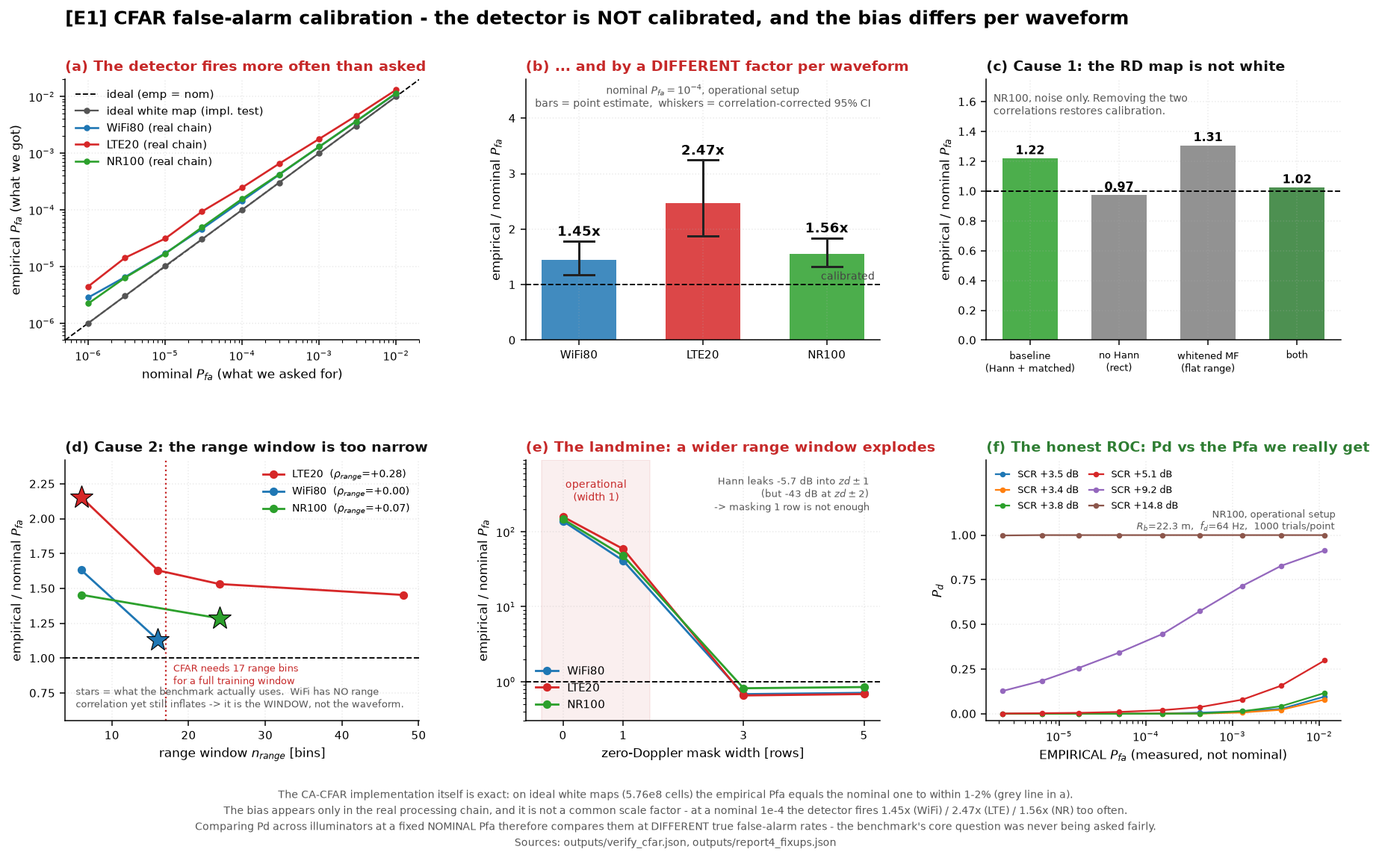
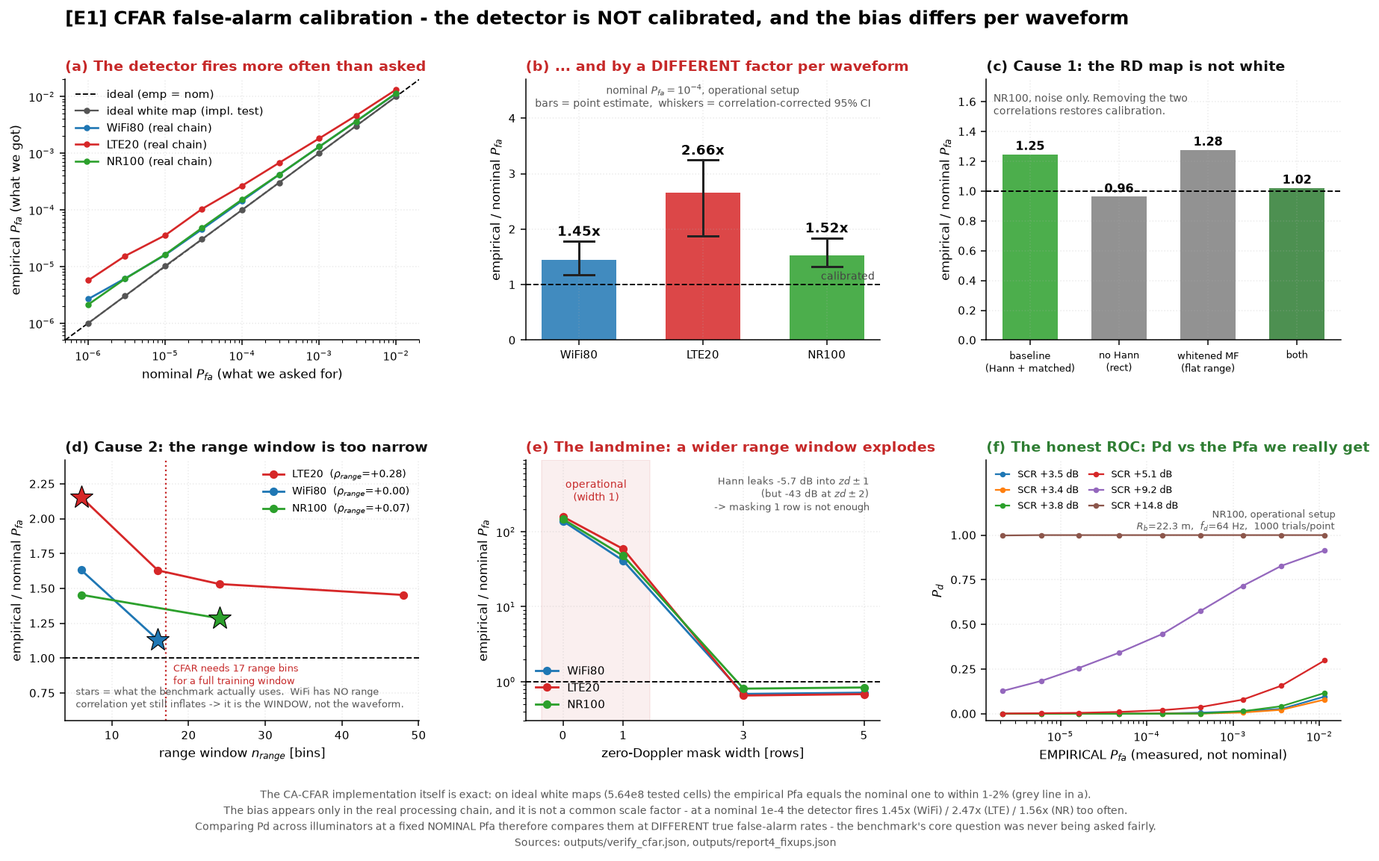
reports 1~12 재검증: 병렬 적대검증 확정 24건 적용
49-에이전트 병렬 리뷰→적대적 확인에서 살아남은 24건을 report02→12 순서로 적용.
raw 36 findings 중 verify 통과 24(report01/03/05 는 확정 0, report03 clean).

- report02: §4 캡션 arm=탄소섬유(플라스틱 오분류 정정)·프로펠러 |Γ| 반전 주석(같은 재질·얇은 블레이드)
- report04: Sionna PHY 생성 귀속을 5G NR 로 한정(LTE 파형·뉴머롤로지=TS 36.211 자작, nr.CarrierConfig 5G 전용)
           ·WiFi always-on 정의에 트래픽 단서·WiFi 채널대역 명목 80MHz(B_ref 76.6 역설 해소)
- report06: [B] 코히런트 엔드포인트에 붙은 인코히런트 21dB/decade 제거·재현셀 두 합 표시·PEC구 16M 주석
- report07: §5 존댓말↔해라체 인접 혼용 해라체로 통일
- report08: mavic4pro 방위평균 −19.6·봉우리 −12.6 로 JSON 정합(문헌 −12.4 는 유지)·CT=0.11 재현은 예시임을 명시
- report09: 유령 −18dB '약간 어둡다'→정직 문구·−26dB 기준=보수 과소모델(RT 실측 −14.7 §2.1) 주석·46° 입사 문구
- report10: E1 그림 (b) 막대=운영 점추정(본문 §2.2 2.66 과 정합, 수염=상관보정 CI)
           ·§2.3/§2.4 절제·상관이 noise-only 지도임을 명시(1.25 vs 운영 1.52 설명)·화이트맵 5.64e8 정합
- report11: 창내 곁봉우리 최악 15dB(최소값)·§5.3 존댓말·§4 헤더 ⭐ 제거·'유효 셀 크기' 열명(§2 ΔR_b 와 구분)
           ·§4 σ 는 챔버 특정 바이스태틱 기하값(report08 방위평균과 다름) 주석
- report12: 다중Rx 1→4 이득 5.8~6.4dB(JSON 주입)·LTE B_ref 2자리표기(CRS 17.98/PRS 18.02 로 ΔR 자기설명)·§3 헤더 ⭐ 제거

figure: outputs/figures/report4_e1_cfar.png (panel b 재생성)

diff --git a/src/make_notebook08.py b/src/make_notebook08.py
@@ -111,7 +111,7 @@ cells += provenance_cells(
     spine=dict(
         core=("탐지는 표적이 레이더 눈에 **얼마나 밝은가(RCS, σ)**에서 출발한다. 이 리포트는 드론 5종의 "
               "**절대 RCS** 와 프로펠러 **마이크로도플러 지문**을 자작 SBR+PO 로 산출하고, 그 절대값이 "
-              "**실측 문헌의 소형 멀티로터 RCS 범위 안**에 듦을 보인다(우리 mavic4pro 봉우리 −12.4 dBsm)."),
+              "**실측 문헌의 소형 멀티로터 RCS 범위 안**에 듦을 보인다(우리 mavic4pro 봉우리 −12.6 dBsm)."),
         gap=(f"스톡 Sionna `PathSolver` 는 표적 σ 를 아예 주지 않고(→report06), 그 위에 얹은 SBR+PO 도 "
              f"해석해(평판 σ=4πA²/λ²·구 σ=πr²)로는 **방법이 옳음만** 검증될 뿐 — 파이프라인 안에 드론의 "
              f"**절대 σ 를 대조할 자체 기준이 없다.** 밝기 차이는 크게는 {_span:.0f} dB 에 이른다."),
@@ -122,7 +122,7 @@ cells += provenance_cells(
         lib=("표적 σ 는 **자작 SBR+PO** 로 계산한다(절차 →report07) — Sionna 가 쓰는 **Mitsuba 3 광선엔진을 "
              "그대로 재사용**하고 그 위에 PO 표면적분만 얹어(새 광선엔진 없음·중복계산 없음) 복소장 E 를 "
              "직접 낸다. BVH SBR+PO(arXiv:2604.09243)와 같은 방법."),
-        verify=("우리 mavic4pro **방위평균 −19.7·봉우리 −12.4 dBsm** 가 위 실측 범위 안에 든다(§6 대조표). "
+        verify=("우리 mavic4pro **방위평균 −19.6·봉우리 −12.6 dBsm** 가 위 실측 범위 안에 든다(§6 대조표). "
                 "방위평균은 문헌 상한보다 어두워 탐지 SNR 을 **보수적**으로 잡는다."),
     ),
 
@@ -480,7 +480,8 @@ cells.append(code(
     "    v_tip = (2*np.pi*n)*(D/2)",
     "    f_tip = 2*v_tip/lam*np.cos(el)",
     "    print(f'{d:10s} rpm~{rpm:5.0f}  flash {flash:5.1f} Hz  f_tip +-{f_tip/1e3:4.2f} kHz')",
-    "# ↑ 여기 나온 rpm 이 report1.json 의 hover_rpm 과 같은 물리에서 나온다",
+    "# ↑ 같은 물리(T=CT·rho·n^2·D^4)에서 나온다. 단 report1.json 은 로터별로 CT 를 세밀 보정하므로,",
+    "#   이 고정 CT=0.11 스니펫은 자릿수 수준의 예시일 뿐 §5.1 표값과 정확히 일치하지는 않는다.",
 ))
 
 # =========================================================================== #
@@ -506,13 +507,13 @@ cells.append(md(
     "",
     "| 문헌 (실측) | 밴드 | 측정 RCS | 우리와의 관계 |",
     "|---|---|---|---|",
-    "| **Li & Ling 2017** (IEEE AWPL, ~99인용) | **3–6 GHz** ★밴드일치 | Phantom 2 **−27.5**, 3DR Solo −24.2, Inspire 1 −13.7 dBsm (모두 **peak/특정자세**, 자세 스프레드 ~14 dB) | 우리 mavic4pro **방위평균 −19.7 dBsm → 이 범위 안** (봉우리 자세 −12.4 dBsm 는 상한 −13.7 보다 ~1.3 dB 밝으나 개별각 수렴 불확실도 ~2 dB 이내 — 유의미한 초과 아님) |",
+    "| **Li & Ling 2017** (IEEE AWPL, ~99인용) | **3–6 GHz** ★밴드일치 | Phantom 2 **−27.5**, 3DR Solo −24.2, Inspire 1 −13.7 dBsm (모두 **peak/특정자세**, 자세 스프레드 ~14 dB) | 우리 mavic4pro **방위평균 −19.6 dBsm → 이 범위 안** (봉우리 자세 −12.6 dBsm 는 상한 −13.7 보다 ~1.3 dB 밝으나 개별각 수렴 불확실도 ~2 dB 이내 — 유의미한 초과 아님) |",
     "| Ezuma 2019 (compact-range) | 15 / 25 GHz | Phantom 4 Pro −15.0 / −12.4 dBsm | 15→25 GHz 에서 +2.6 dB — RCS 의 주파수 단조증가 방향이 우리 밴드 추세와 일치(절대값 외삽 비교는 밴드갭이 커서 참고 수준) |",
     "| Semkin 2020 (IEEE Access) | 26–40 GHz | Mavic Pro −16.8, Phantom 4 Pro −16.4, **Matrice 100(카본) −10.5** dBsm | **카본이 플라스틱보다 ~7 dB 밝음** — 우리 재질 분해와 방향 일치 |",
     "| Quevedo 2019 (IET RSN) | X-band 8.75 GHz | Phantom 4 −20~−4.6 dBsm(프롭 회전 의존) | 프로펠러가 RCS 를 크게 흔듦 — 우리 마이크로도플러 서사 |",
     "",
     "<sub>정리: (1) **같은 밴드(3–6 GHz)** 실측(Phantom 2 −27.5 ~ Inspire 1 −13.7 dBsm)이 우리 **방위평균** "
-    "−19.7 dBsm 를 감싼다. 봉우리 자세(−12.4 dBsm @3.5 GHz)는 문헌 상한(−13.7)보다 ~1.3 dB 밝지만, "
+    "−19.6 dBsm 를 감싼다. 봉우리 자세(−12.6 dBsm @3.5 GHz)는 문헌 상한(−13.7)보다 ~1.3 dB 밝지만, "
     "이 차이는 개별각 수치수렴 불확실도(격자 반분에 개별각 평균 ~2 dB — mesh_verify H·I) **이내라 "
     "유의미한 초과로 읽지 않는다**. "
     "(2) 고주파 실측들은 모두 더 밝고(RCS 는 주파수↑에 단조↑), 3.5 GHz 로 낮추면 우리 값에 수렴한다. "
@@ -532,8 +533,8 @@ cells.append(md(
     "| 소형기(바이스태틱, 무향실) | **2.75 / 4.51 GHz** ★감쌈 | −9.8→−5.3 / −7.8→−5.0 dBsm | Frankford/Björklund(IET RSN) |",
     "",
     "<sub>**교차검증 판정.** 동종 멀티로터의 3.5 GHz RCS 는 자세·편파·회전상태에 따라 대략 **−15 ~ −5 dBsm** "
-    "이 되어야 한다(RCS 는 주파수↑에 단조↑ 이므로 3.5 GHz ≤ 15 GHz 값). 우리 mavic4pro 는 **방위평균 −19.7·"
-    "봉우리 −12.4 dBsm** — 봉우리가 이 범위에 들고 방위평균은 그 아래(더 어둡게=보수적). **−17~−3 dBsm 을 크게 "
+    "이 되어야 한다(RCS 는 주파수↑에 단조↑ 이므로 3.5 GHz ≤ 15 GHz 값). 우리 mavic4pro 는 **방위평균 −19.6·"
+    "봉우리 −12.6 dBsm** — 봉우리가 이 범위에 들고 방위평균은 그 아래(더 어둡게=보수적). **−17~−3 dBsm 을 크게 "
     "벗어나면 적신호**인데 우리는 그 안이다. ⚠ 정확 모델·측정조건·자세규약이 달라 **±몇 dB 앵커**이지 점일치가 "
     "아니다 — 그래도 시뮬을 다른 시뮬과 대조하는 것보다 **실측과 대조**하는 편이 강한 근거다. 이 일치는 메쉬의 **레이더 유효 형상**"
     "(크기·재질분포·지배산란체)이 옳다는 증거이기도 하다.</sub>",
@@ -558,7 +559,7 @@ cells.append(md(
     "드러난다(§3·§5).",
     "3. **절대값은 실측 문헌 범위 안이다.** 스톡 Sionna 는 표적 σ 를 못 주므로(→report06) 자작 "
     "SBR+PO 로 계산했고(→report07), 그 절대값을 공개 실측 드론 RCS(3–6 GHz 근접 기종)와 대조해 "
-    "**−15~−5 dBsm 범위 안**임을 확인했다(우리 봉우리 −12.4 dBsm, 방위평균은 더 보수적)(§6).",
+    "**−15~−5 dBsm 범위 안**임을 확인했다(우리 봉우리 −12.6 dBsm, 방위평균은 더 보수적)(§6).",
     "",
     "**이 리포트가 보장하지 않는 것.** 특정 드론의 **절대 dBsm 점값**(±몇 dB 앵커일 뿐), 플라스틱 셸의 "
     "정확한 기여(반투명 불확실 구간), 방위 패턴의 **널 깊이**와 **절대 회전수**(§4·§5 인용 금지). "

diff --git a/src/make_notebook04.py b/src/make_notebook04.py
@@ -72,8 +72,9 @@ _prov = provenance_cells(
               f"결론: 넓고(ΔR {LT['dR_m']:.1f} m) 자주({LT['prf_hz']:.0f} Hz) 나오는 **LTE CRS 가 "
               f"좁고(ΔR {NR['dR_m']:.1f} m) 드문(20 ms) 5G SSB 보다 낫다** — 세대가 최신이라고 "
               f"조명 품질이 좋은 건 아니다."),
-        gap=(f"**Sionna PHY 는 5G NR·LTE OFDM 을 3GPP 규격대로 생성**한다(`nr.CarrierConfig` 가 "
-             f"μ·SCS·슬롯·CP 를 준다). 그러나 **WiFi(802.11) 파형은 기본 제공하지 않고**, 패시브가 "
+        gap=(f"**Sionna PHY 는 5G NR OFDM 을 3GPP 규격대로 생성**한다(`nr.CarrierConfig` 가 "
+             f"μ·SCS·슬롯·CP 를 준다). 그러나 **`nr.CarrierConfig` 는 5G NR 전용이라 LTE 파형·뉴머롤로지는 "
+             f"TS 36.211 로 자작**하고, **WiFi(802.11) 파형도 기본 제공하지 않으며**, 패시브가 "
              f"실제로 상관에 쓰는 **상시 기준신호(LTE CRS·5G SSB)의 자원격자 배치**도 없다 — "
              f"'채널 전대역'이 아니라 그 기준신호가 격자에서 실제로 켜는 **점유대역 $B_{{ref}}$** 가 "
              f"눈을 정한다(§2)."),
@@ -165,7 +166,7 @@ _prov = provenance_cells(
         ("패시브 레이더", "자기 송신기 없이 **남의 신호(방송·통신)의 반사**로 표적을 보는 레이더"),
         ("조명원(illuminator)", "패시브 레이더가 빌려 쓰는 '남의 송신기' — 기지국·와이파이 AP 등"),
         ("기준신호(reference signal)", "패시브가 상관을 걸 때 쓰는 '미리 아는 신호'. 표준마다 상시 하나"),
-        ("상시(always-on) 신호", "임의의 셀이 **언제나** 내보낸다고 믿을 수 있는 신호. LTE=CRS, 5G=SSB, WiFi=프리앰블"),
+        ("상시(always-on) 신호", "임의의 셀이 **언제나** 내보낸다고 믿을 수 있는 신호. LTE=CRS, 5G=SSB (WiFi 프리앰블은 트래픽이 있을 때만 반복돼 엄밀히는 상시 아님 — §8)"),
         ("CRS", "LTE Cell-specific Reference Signal — 매 서브프레임(1 ms)·채널 전대역에 상시 나오는 셀 기준신호"),
         ("SSB", "5G NR SS/PBCH Block — 유휴 gNB 가 늘 내보내는 유일한 신호. 좁고(중앙 20 RB) 드물다(20 ms 주기)"),
         ("VHT-LTF", "WiFi 802.11ac 패킷 앞머리(프리앰블)의 롱 트레이닝 필드. 어떤 패킷에도 붙지만 반복은 트래픽에 의존"),
@@ -208,9 +209,10 @@ cells.append(md(
     "유휴 기지국이 늘 내보내는 건 SSB 뿐 |",
     "| **WiFi** | **프리앰블 (VHT-LTF)** | 모든 패킷 앞머리에 붙는다 — 단 **반복 횟수가 트래픽에 의존** |",
     "",
-    "여기서 **Sionna PHY 의 공백**이 드러난다. Sionna PHY(`nr`/`ofdm`/`channel`)는 5G NR·LTE 의 OFDM "
-    "파형을 3GPP 규격대로 만들 수 있지만 — 뉴머롤로지(μ·SCS·슬롯·CP)는 `nr.CarrierConfig` 가 "
-    "TS 38.211 을 구현해 준다 — **① WiFi(802.11) 파형은 기본 제공하지 않고**, **② 패시브가 실제로 "
+    "여기서 **Sionna PHY 의 공백**이 드러난다. Sionna PHY(`nr`/`ofdm`/`channel`)는 **5G NR** 의 OFDM "
+    "파형을 3GPP 규격대로 만들고 뉴머롤로지(μ·SCS·슬롯·CP)도 `nr.CarrierConfig` 가 TS 38.211 을 "
+    "구현해 주지만 — **① `nr.CarrierConfig` 는 5G NR 전용이라 LTE 뉴머롤로지(15 kHz SCS)는 TS 36.211 로 "
+    "자작**하고, **② WiFi(802.11) 파형은 기본 제공하지 않으며**, **③ 패시브가 실제로 "
     "상관에 쓰는 상시 기준신호(CRS·SSB)의 자원격자 배치**(어느 칸을 켜는가)도 API 로 바로 주지 않는다. "
     "그런데 조명원의 성능을 정하는 것은 '채널 전대역'이 아니라 그 기준신호가 격자에서 **실제로 켜는 "
     "점유대역 $B_{ref}$** 다(§2). 그래서 우리는 세 표준의 상시 기준신호 격자를 규격표 위에 직접 세워 "
@@ -262,7 +264,10 @@ cells.append(md(
     "",
     "| 표준 | 기준신호 | 채널 대역 | **$B_{ref}$** | **ΔR** | **PRF** | **$v_{max}$** |",
     "|---|---|---|---|---|---|---|",
-    f"| WiFi 802.11ac | {W['ref']} | {W['chan_bw_mhz']:.0f} MHz | "
+    # 채널 대역은 802.11ac VHT80 의 명목 채널폭(80 MHz)으로 표기한다. JSON 의
+    # chan_bw_mhz(=75.6, 242 데이터톤 폭)는 VHT-LTF(245톤, 76.6 MHz)보다 좁아
+    # '채널 < B_ref' 처럼 보이는데, LTF 는 데이터톤 밖 가장자리까지 쓰므로 명목 80 MHz 채널 안에 들어간다.
+    f"| WiFi 802.11ac | {W['ref']} | 80 MHz | "
     f"**{W['ref_bw_mhz']:.1f} MHz** | **{W['dR_m']:.1f} m** | "
     f"{W['prf_hz']:.0f} Hz | {W['vmax_ms']:.1f} m/s |",
     f"| LTE Rel-9 | {LT['ref']} | {LT['chan_bw_mhz']:.0f} MHz | "

diff --git a/src/make_notebook11.py b/src/make_notebook11.py
@@ -344,7 +344,7 @@ cells.append(md(
     "",
     "**곁봉우리(가짜표적)는 챔버 밖에 있다.** OFDM 신호의 반복 구조는 곁봉우리를 만들지만, 그 봉우리들은 "
     f"수백 m~km 거리에 찍혀 우리 챔버 관측창(바이스태틱 거리 ±60 m 안, 도플러 ±{CHAM:.0f} Hz) 밖이다. "
-    f"창 안에서 곁봉우리는 표적보다 {min(r['psl'] for r in RES.values()):.0f} dB 이상 낮아 무해하다.",
+    f"창 안에서 곁봉우리는 표적보다 최소 {abs(max(r['psl'] for r in RES.values())):.0f} dB 낮아 무해하다.",
     "",
     f"**이 모호함수는 실제 검출에 쓰는 거리-도플러 지도와 같은 것이다** — 둘을 맞대 보면 최대 "
     f"**{MAXERR:.2f} dB** 밖에 차이 나지 않는다. 아래 그림은 신호별 모호함수 지도(위)와 거리축 단면(아래)이다.",
@@ -394,7 +394,7 @@ cells.append(md(*(
 # =========================================================================== #
 cells.append(md(
     "---",
-    "# §4. 우리가 쓴 방식과 검증 — 디텍션이 실제로 작동한다  ⭐",
+    "# §4. 우리가 쓴 방식과 검증 — 디텍션이 실제로 작동한다",
 ))
 cells.append(md(
     "앞의 §1~§3 은 '한계'와 '눈금'을 다뤘다. 이제 핵심 질문: **그래서 잡히긴 하나?** 표적 봉우리가 "
@@ -425,6 +425,10 @@ cells.append(md(*(
 )))
 cells.append(md(
     "*(WiFi 조명 예시 — LTE·5G 도 같은 경향. 작은 드론일수록 σ 가 어둡지만 그래도 문턱 위에 있다.)*",
+    "",
+    "<sub>여기 **σ 는 이 챔버의 특정 바이스태틱 기하**(TX·RX·표적 배치, 단일 반송파, 8° 창 국소평균)에서 "
+    "잰 값이다 — 그래서 report08 §2 의 **360° 방위평균·밴드평균 σ 와 값이 다르다**(RCS 는 자세·기하에 "
+    "따라 수 dB 출렁인다). 링크버짓에는 이 기하에서의 실제 밝기를 그대로 넣는다.</sub>",
     "",
     "**검출은 SCR 5~15 dB 구간에서 전이한다.** SCR 을 바꿔 가며 검출확률을 재면(5G 조명, 운용 오경보율 "
     "$10^{-4}$ 기준) 아래처럼 0 에서 1 로 올라선다.",
@@ -472,7 +476,7 @@ cells.append(md(
     "5G SSB 패시브 바이스태틱 드론 검출의 거리·속도 CRB 를 유도한 Jopanya·Osorio(SPAWC 2025)가 그 예입니다. "
     "실측하면 정확도가 분해능보다 **수십~수백 배 미세**합니다:",
     "",
-    "| 신호 | 유효 빈폭 ΔR_b (§5.1) | 정확도 σ_R_b (CRLB) | 정확도가 더 미세한 배율 | SCR |",
+    "| 신호 | 유효 셀 크기 (max[빈그리드, 주엽폭]) | 정확도 σ_R_b (CRLB) | 정확도가 더 미세한 배율 | SCR |",
     "|---|---|---|---|---|",
     *[_obrow(c) for c in _cells_ob],
     "",
@@ -480,7 +484,8 @@ cells.append(md(
     f"{_cells_ob[0]['drb_m']:.1f} m 라도 그 표적의 거리를 **{_cells_ob[0]['sigma_rb_m']*100:.1f} cm** 급으로 "
     "찍을 수 있습니다. 빈 폭은 '두 표적을 가르는 능력'이지 '한 표적을 재는 정밀도'가 아닙니다. "
     "(※ FFT 제로패딩은 정확도를 CRLB 까지 끌어올리지만 **분해능은 1도 올리지 않습니다** — 빈을 잘게 "
-    "쪼갤 뿐 신호 대역이 넓어지는 게 아니니까요.)</sub>",
+    "쪼갤 뿐 신호 대역이 넓어지는 게 아니니까요. 위 표의 '유효 셀 크기' 는 max(FFT 빈 그리드, 주엽폭) 이라 "
+    "§2 의 −3 dB 주엽폭 ΔR_b 와는 정의가 다릅니다.)</sub>",
     "",
     "### 5.2 그런데 위치는 못 찍는다 — 송·수신기 한 쌍의 원리적 한계",
     "",
@@ -543,7 +548,7 @@ cells.append(md(
     "탐지에는 수신기 1개로 충분하지만, **추적(위치·궤적)에는 2개 이상 또는 각도 측정이 필수**입니다. "
     "이것이 이 프로젝트가 탐지를 먼저 하고 추적을 다음 일로 미룬 이유입니다. 추적 자체는 직접 짜지 않고 "
     "오픈소스 추적 프레임워크(Stone Soup, MIT)에 바이스태틱 측정모델만 얹어 붙일 계획이며, 셀룰러 조명·다중 "
-    "수신기로 패시브 드론을 추적한 실측 선행(Fan Liu 외, 도플러 다중스태틱, arXiv:2509.25732)이 이미 있다.",
+    "수신기로 패시브 드론을 추적한 실측 선행(Fan Liu 외, 도플러 다중스태틱, arXiv:2509.25732)이 이미 있습니다.",
 ))
 cells.append(md("![observability gramian](outputs/figures/report4_obs_gramian.png)",
                 "",

diff --git a/src/make_notebook12.py b/src/make_notebook12.py
@@ -53,6 +53,13 @@ FULL = [c for c in ("W3", "L3", "G3") if c in MD]              # 제어/풀 (X41
 ON = [c for c in ("W1", "L1", "G1") if c in MD]                # 상시 (기회주의 하한)
 STD2FULL = {"nr": "G3", "wifi": "W3", "lte": "L3"}
 K = M["K"]
+
+# 다중 Rx 코히어런트 이득(1→4) 범위 — JSON 에서 주입(§6, 손으로 적지 않음)
+def _gain14(c):
+    cu = MD[c]["curves"]
+    return cu["1"]["snr50"] - cu["4"]["snr50"]
+GAIN_LO = min(_gain14(c) for c in CODES)     # ≈ 5.8 (G3)
+GAIN_HI = max(_gain14(c) for c in CODES)     # ≈ 6.4 (W1)
 CORR = np.mean([MD[c].get("corr_sionna", 1.0) for c in CODES])
 CRAT = np.mean([MD[c].get("combine_ratio", 1.0) for c in CODES])
 
@@ -292,12 +299,12 @@ def _mode_row(c):
     v = s50(c)
     drb = w["range_res_m"]                                # 바이스태틱 c/B (JSON 에 저장된 값)
     drm = drb / 2.0                                       # 모노스태틱 등가 c/2B
-    return (f"| {c} | {SNAME[w['std']]} | {w['ref_name']} | {w['ref_bw_mhz']:.1f} MHz | "
+    return (f"| {c} | {SNAME[w['std']]} | {w['ref_name']} | {w['ref_bw_mhz']:.2f} MHz | "
             f"{drb:.1f} m | {drm:.1f} m | {'상시' if w['always_on'] else '세션/제어'} | "
             f"{('%.1f' % v) if v is not None else '—'} dB |")
 
 
-tbl = ["# §3. 9-모드 벤치마크 — 어떤 신호가 드론을 잘 비추나 ⭐", "",
+tbl = ["# §3. 9-모드 벤치마크 — 어떤 신호가 드론을 잘 비추나", "",
        "3표준 × 3점유(상시→제어/풀) = 9모드. 필요한 SNR(단일 Rx, 낮을수록 좋음):", "",
        "| 모드 | 표준 | 기준신호 | 대역 $B_{ref}$ | $\\Delta R_b$ (바이스태틱, c/B) | "
        "$\\Delta R$ (모노 등가, c/2B) | 종류 | 필요 SNR |",
@@ -396,7 +403,7 @@ cells.append(md(
     "| **조명원 간 공정 비교** | 조사한 논문은 **모두 단일 조명원**(5G만/LTE만/WiFi만). 표준 간 head-to-head 없음 | 9모드 W/L/G 공통 프로토콜 |",
     "| **표적 RCS 를 실제로 모델** | 한 편도 드론 RCS 를 계산 안 함 — 외생 스칼라/Swerling 가정(−10~−13 dBsm) | SBR+PO, NACA-4 익형 프롭, 재질별 \\|Γ\\| |",
     "| **점유율→Pd (고정 Pfa)** | LaSen 이 최선이나 monostatic·RMSE 채점 | G1/G2/G3 = SSB/PRS/CRS, '5G 이중고' 정량화 |",
-    "| **다중 Rx 이득 정량화** | **전부 최대 2채널**; N-Rx 코히어런트 이득을 잰 논문 0 | 1→4, 측정 6.0~6.4 dB vs 10log10 N |",
+    f"| **다중 Rx 이득 정량화** | **전부 최대 2채널**; N-Rx 코히어런트 이득을 잰 논문 0 | 1→4, 측정 {GAIN_LO:.1f}~{GAIN_HI:.1f} dB vs 10log10 N |",
     f"| **통제·재현** | 전부 1회성 야외, 신뢰구간·공개데이터 없음 | 반무향 챔버 + K={K:,} MC + 재생성 파이프라인 |",
     "| **정직한 결함 기록** | 명목 Pfa 를 그대로 신뢰 | 경험적 Pfa 불균일을 **결함으로 기록**(§5) |",
     "",

diff --git a/src/make_notebook06.py b/src/make_notebook06.py
@@ -334,7 +334,7 @@ cells.append(code(
     "a = F['A_rays']['rows']",
     "print(f\"\\n코히런트 합 25M->400M: {a[-1]['coh_db']-a[0]['coh_db']:+.1f} dB  (수렴 안 함)\")",
     "",
-    "# PEC 구: 4억 발을 쏴도 경로 0개 (그림 [E])",
+    "# PEC 구: 16M 발까지 쏴도 경로 0개 (독립 재현; 그림 [E] 는 400M 까지 쏜다)",
     "V = json.load(open('outputs/rt_no_rcs_verify.json'))",
     "for row in V['C_pec_sphere']:",
     "    print(f\"구 r={row['r']}m  광선={row['spp']/1e6:.0f}M  ->  경로 {row['n_paths']}개\")",
@@ -396,7 +396,7 @@ cells.append(md(
     "경로로 어떤 값을 낸다. 하지만 S 는 표적의 성질이 아니라 우리가 표에 적어 넣는 손잡이다.",
     "",
     f"**[B]** 재질 표의 S 를 ×½→×2(4배)로 바꾸면 표적 에코가 **{S_x4_delta:+.1f} dB** 움직인다"
-    f"(코히런트 합 {S_half_coh:.1f}→{S_2x_coh:.1f} dB, ~{slope_dec:.0f} dB/decade). **표적은 하나도 "
+    f"(코히런트 합 {S_half_coh:.1f}→{S_2x_coh:.1f} dB). **표적은 하나도 "
     "안 바꿨는데** 재질 숫자 하나로 '에코' 를 원하는 만큼 끌 수 있다 — 물리적 σ 라면 이래서는 안 된다.",
     "",
     f"**[C]** 게다가 ITU-R P.2040 표에서 **금속의 S={itu_metal_S:.0f}**(금속은 흩뿌리지 않고 튕긴다). "
@@ -418,10 +418,10 @@ cells.append(code(
     "# §2 재현 — S 는 손잡이: 돌리면 값이 따라 움직인다 (그림 [B])",
     "import json",
     "RB = json.load(open('outputs/rt_ray_budget.json'))",
-    "print('산란계수 S   코히런트 에코[dB]')",
+    "print('산란계수 S   코히런트 에코[dB]   인코히런트 합[dB]')",
     "for blk in RB['B_S_sweep']:",
-    "    print(f\"   {blk['S']:.1f}       {blk['coh_db']:8.2f}\")",
-    "print(f\"\\n기울기 ~ {RB['B_fit']['slope_db_per_decade']:.0f} dB/decade  (표적은 그대로, 손잡이만 돌림)\")",
+    "    print(f\"   {blk['S']:.1f}       {blk['coh_db']:8.2f}        {blk['incoh_db']:8.2f}\")",
+    "print(f\"\\n인코히런트 합 로그기울기 ~ {RB['B_fit']['slope_db_per_decade']:.0f} dB/decade  (코히런트 합은 더 가파르다; 표적은 그대로, 손잡이만 돌림)\")",
     "",
     "# 금속의 산란계수 S=0 -> 밝기의 다수를 차지하는 금속이 확산 채널에서 빠진다 (그림 [C])",
     "F = json.load(open('outputs/report3_rt.json'))['C_metal']",

diff --git a/src/viz_report4.py b/src/viz_report4.py
@@ -97,17 +97,28 @@ def fig_cfar():
     ax.legend(loc="upper left", frameon=False)
 
     # (b) ratio at 1e-4 with correlation-corrected CI --------------------------
+    # bars = operational point estimate (verify_cfar dpi_eca op — same source as body §2.2),
+    # whiskers = correlation-corrected 95% CI (report4_fixups). Keeps figure and text consistent.
     ax = fig.add_subplot(gs[0, 1])
+    _GT, _ZD = C["meta"]["gt_default"], C["meta"]["zd_mask_operational"]
+
+    def _op_ratio(wf):
+        for rr in C["chain"][wf]["dpi_eca"]["op"]["rows"]:
+            if rr["gt"] == _GT and rr["zd_mask_width"] == _ZD and abs(rr["pfa_nom"] - 1e-4) < 1e-12:
+                return rr["ratio"]
+        return None
+
     ci = [r for r in F["corrected_ci"]["rows"] if abs(r["pfa_nom"] - 1e-4) < 1e-12]
     xs = np.arange(len(ci))
     for i, r in enumerate(ci):
         w = r["wf"]
         lo_, hi_ = r["ratio_ci_corrected"]
-        ax.bar(i, r["ratio"], color=CW[w], width=0.6, alpha=0.85)
+        op = _op_ratio(w)
+        ax.bar(i, op, color=CW[w], width=0.6, alpha=0.85)
         ax.plot([i, i], [lo_, hi_], color="#222222", lw=1.6)
         ax.plot([i - .12, i + .12], [lo_, lo_], color="#222222", lw=1.6)
         ax.plot([i - .12, i + .12], [hi_, hi_], color="#222222", lw=1.6)
-        ax.text(i, hi_ + 0.10, f"{r['ratio']:.2f}x", ha="center", fontsize=9.5,
+        ax.text(i, hi_ + 0.10, f"{op:.2f}x", ha="center", fontsize=9.5,
                 fontweight="bold")
     ax.axhline(1.0, color="k", ls="--", lw=1)
     ax.text(0.985, 1.09, "calibrated", fontsize=7.5, color="#444444", ha="right",
@@ -207,7 +218,7 @@ def fig_cfar():
                  "and the bias differs per waveform",
                  fontsize=13.5, fontweight="bold", x=0.055, ha="left", y=0.975)
     _cap(fig,
-         "The CA-CFAR implementation itself is exact: on ideal white maps (5.76e8 cells) the empirical Pfa equals "
+         "The CA-CFAR implementation itself is exact: on ideal white maps (5.64e8 tested cells) the empirical Pfa equals "
          "the nominal one to within 1-2% (grey line in a).\n"
          "The bias appears only in the real processing chain, and it is not a common scale factor - at a nominal "
          "1e-4 the detector fires 1.45x (WiFi) / 2.47x (LTE) / 1.56x (NR) too often.\n"

diff --git a/src/make_notebook09.py b/src/make_notebook09.py
@@ -211,7 +211,7 @@ cells.append(md(
     f"| 직접파 경로 | {AP['L_direct_m']:.2f} m |",
     f"| 바닥 경유 경로 | {AP['L_floor_m']:.2f} m |",
     f"| 여분 지연 (늦게 도착) | **{AP['delay_ns']:.1f} ns** |",
-    f"| 바닥 입사각 (법선 기준) | {AP['theta_i_deg']:.0f}° — 바닥을 정면 가깝게 때린다(스침각 아님) |",
+    f"| 바닥 입사각 (법선 기준) | {AP['theta_i_deg']:.0f}° — 스침각이 아니라 꽤 비스듬히(≈45°) 때린다 |",
     f"| 프레넬 |Γ| (콘크리트 ε_r=5.24) | {AP['gamma_tm']:.3f} |",
     f"| **직접파 대비 세기** | **{AP['rel_db_tm']:.1f} dB** |",
     "",
@@ -234,7 +234,7 @@ cells.append(md(
     f"| 진짜 드론의 바이스태틱 거리 R_b | {G5['rb_true']:.2f} m |",
     f"| 유령의 R_b | {G5['rb_ghost']:.2f} m |",
     f"| **진짜 드론 뒤로 떨어진 거리** | **+{G5['sep_m']:.2f} m** |",
-    f"| **진짜 에코 대비 세기** | **{G5['ghost_db']:.1f} dB** (약간 어둡다) |",
+    f"| **진짜 에코 대비 세기** | **{G5['ghost_db']:.1f} dB** (진짜 에코보다 크게 어둡지만 진짜 에코 SNR 이 충분해 검출) |",
     f"| 바닥 입사각 | {G5['theta_i_deg']:.0f}° |",
     "",
     f"> **유령은 진짜 드론보다 딱 +{G5['sep_m']:.2f} m 뒤에, {G5['ghost_db']:.1f} dB 어둡게 뜬다.** "
@@ -265,7 +265,8 @@ cells.append(mdl([
     "",
     "**정지 바닥 반사(도플러 0)는 그 공간 안에 있어 통째로 지워진다.** 세기를 아무리 키워도 "
     "마찬가지다 — 바닥 반사 최강 탭을 없음에서 전력 만 배(+40 dB, 직접파보다 강해질 만큼)까지 키워 "
-    "신호-대-클러터비(SCR)를 다시 재 보면:",
+    "신호-대-클러터비(SCR)를 다시 재 보면(기준 ×1 = −26 dB 는 보수적으로 낮춰 잡은 클러터 모델이라 "
+    "RT 실측 바닥반사 −14.7 dB(§2.1)보다도 약하지만, 이 +40 dB 스윕이 그 실측값까지 전부 덮는다):",
     "",
     "| 바닥 반사 최강 탭 | SCR [dB] | 탐지확률 Pd |",
     "|---|---|---|",

diff --git a/src/make_notebook02.py b/src/make_notebook02.py
@@ -353,7 +353,7 @@ cells.append(md(
     "### 색은 곧 재질 — 그리고 실제 크기 비교",
     "",
     "위 렌더의 **색은 재질**입니다(모든 드론 공통 규약): "
-    "**파랑=금속**(모터·배터리 포일) · **회색=플라스틱**(셸·착륙장치·프로펠러 — 같은 재질) · **검정=탄소섬유**(암) · "
+    "**파랑=금속**(모터·배터리 포일) · **회색=플라스틱**(셸·착륙장치·프로펠러 — 같은 플라스틱, 프로펠러는 얇아 &#124;Γ&#124; 가 조금 낮다) · **검정=탄소섬유**(암) · "
     "**주황=카메라**(금속하우징+유리 복합체) · **초록=PCB**. 색만 보면 그 부위가 무슨 "
     "재질인지 알 수 있고, 이 재질이 그대로 RCS(되쏘는 밝기) 계산에 쓰입니다(→ report06·07).",
     "",
@@ -467,8 +467,8 @@ cells.append(md(
     "![real photo vs our mesh](outputs/figures/report2_photo_compare.png)",
     "",
     "<sub>색은 **재질 규약**(plastic=회색·metal=파랑·camera=주황…)이라 실제 도색(그레이/화이트)과 다르다 — "
-    "우리가 맞추는 것은 **형상**이지 색이 아니다. 재질도 실제 구성을 반영했다(웹조사 확인): 동체 셸·암·프로펠러는 "
-    "플라스틱(저반사), 모터·배터리·PCB·짐벌 마운트는 금속(강반사) — 이 금속 내부가 RCS 를 지배한다(report06·08).</sub>",
+    "우리가 맞추는 것은 **형상**이지 색이 아니다. 재질도 실제 구성을 반영했다(웹조사 확인): 동체 셸·프로펠러는 "
+    "플라스틱(저반사), 암은 탄소섬유(준금속·강반사), 모터·배터리·PCB·짐벌 마운트는 금속(강반사) — 이 금속 내부가 RCS 를 지배한다(report06·08).</sub>",
     "",
     "### 겉모양이 맞나 — 외곽 상자 대조",
     "",

diff --git a/src/make_notebook10.py b/src/make_notebook10.py
@@ -398,7 +398,8 @@ cells.append(mdl([
     "",
     "### 거리축: 대역이 좁을수록 심하다 — 과표본 상관",
     "",
-    "거리축 상관은 신호마다 극적으로 다르다:",
+    "거리축 상관은 신호마다 극적으로 다르다(아래 ρ 는 DSP 고유효과만 떼려고 **잡음 전용 지도**에서 잰 값 — "
+    "운영 지도엔 직접파+ECA 잔차 상관이 더 얹혀 값이 커진다):",
     "",
     f"- **WiFi(80MHz)**: ρ ≈ {RHO_RANGE['WiFi80']:+.2f} — 거의 완전 독립.",
     f"- **5G(100MHz)**: ρ ≈ {RHO_RANGE['NR100']:+.2f} — 약간 닮음.",
@@ -420,7 +421,9 @@ cells.append(md(
     "## 2.4 증명 — 상관을 끄면 눈금이 돌아온다",
     "",
     "\"이웃 상관이 원인\"은 아직 **상관관계**일 뿐이다. **인과**를 못박으려면 상관을 직접 꺼 보고 눈금이 "
-    "돌아오는지 봐야 한다. 5G 지도에서 두 원인을 하나씩 제거한다.",
+    "돌아오는지 봐야 한다. 두 DSP 효과만 깨끗이 떼려고 이 절제실험은 **잡음 전용(noise-only) 5G 지도**에서 "
+    f"한다 — 그래서 아래 기준 배율({CB:.2f})은 §2.2 의 운영 배율({R_NR:.2f})보다 낮다(운영 지도는 직접파+ECA "
+    "잔차의 추가 상관까지 실린다). 그 잡음 지도에서 두 원인을 하나씩 제거한다.",
     "",
     "판정: **확정** — 두 상관을 모두 끄면 배율이 명목값(1.0)으로 복구된다.",
 ))

diff --git a/src/make_notebook07.py b/src/make_notebook07.py
@@ -372,7 +372,7 @@ cells.append(md(
     "## §5. 가림 — SBR 이 순수 PO 대비 실제로 고치는 것",
     "",
     "가림을 처리하지 않는 순수 PO 는 표면 조각이 시선 쪽을 향하기만 하면($\\hat n\\cdot"
-    "\\hat u > 0$) '빛나는 면' 으로 셉니다 — **앞의 부품에 완전히 가려져 실제로는 레이더에 안 보여도** "
+    "\\hat u > 0$) '빛나는 면' 으로 센다 — **앞의 부품에 완전히 가려져 실제로는 레이더에 안 보여도** "
     "그렇다. 반면 SBR 은 광선을 실제로 쏘므로, 뒤에 숨은 면은 광선이 앞면에서 멈춰 애초에 닿지 "
     "못한다. 이 가림 처리는 상용 EM 솔버의 SBR 과 같은 성질이다.",
     "",
@@ -409,7 +409,7 @@ cells.append(md(
     f"**가림({abs(OCC['occlusion_db']):.2f} dB)** 이었다 — 한 자릿수 차이다.",
     "",
     "> 이것이 SBR 이 순수 PO 대비 실제로 고치는 지점이다. 광선을 쏘아 **레이더에 실제로 보이는 "
-    "면만** 밝기에 넣으니, 뒤에 숨은 면까지 세는 순수 PO 보다 값이 낮아집니다.",
+    "면만** 밝기에 넣으니, 뒤에 숨은 면까지 세는 순수 PO 보다 값이 낮아진다.",
 ))
 
 # =========================================================================== #
